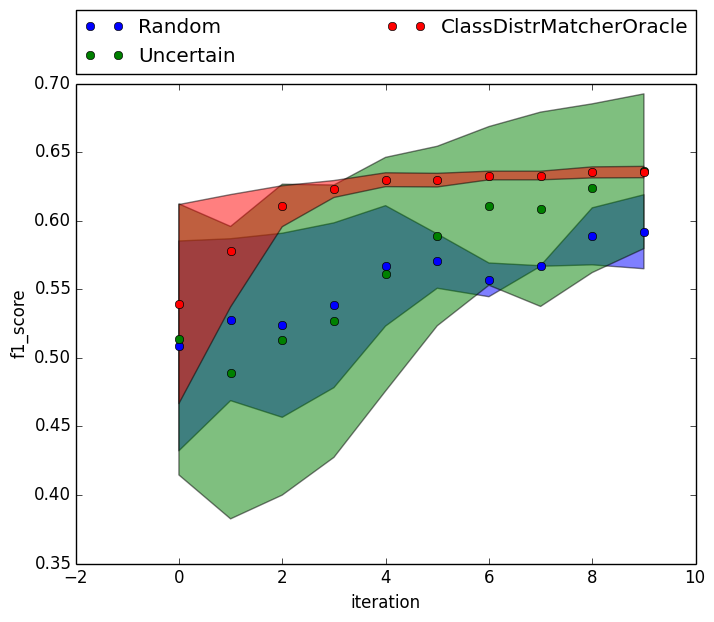
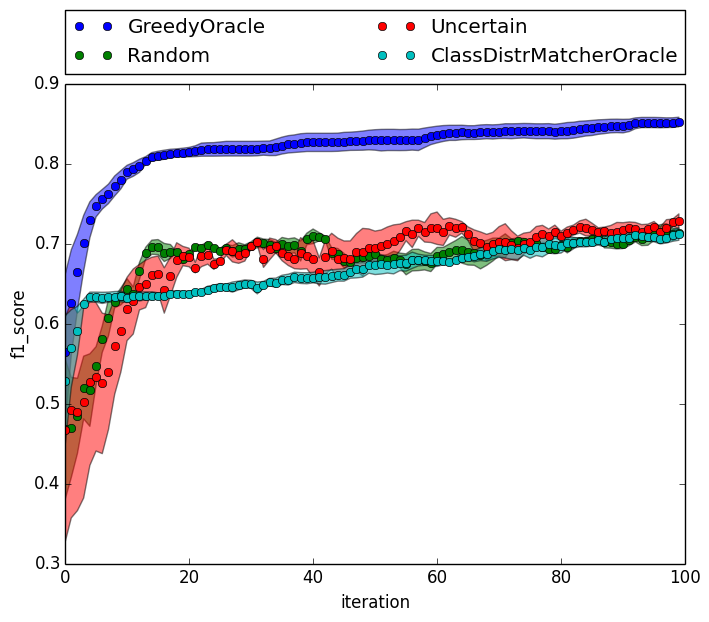
ClassDistrUncertCombo fixed (closes #2); more experiments

diff --git a/active-prior/active.py b/active-prior/active.py
@@ -74,14 +74,17 @@ class ActiveLearner(object):
         self.iters = iters
         self.eval_f = getattr(sklearn.metrics, eval_f)
 
-    def run(self, xtrain, ytrain, xtest, ytest, labeled):
-        """ Fit the classifier using active learning. """
+    def setup(self, xtrain, ytrain, xtest, ytest, labeled):
         self.xtrain = xtrain
         self.ytrain = ytrain
         self.xtest = xtest
         self.ytest = ytest
-        self.clf.fit(xtrain[list(labeled)], ytrain[list(labeled)])
         self.n_classes = len(set(ytest))
+
+    def run(self, xtrain, ytrain, xtest, ytest, labeled):
+        """ Fit the classifier using active learning. """
+        self.setup(xtrain, ytrain, xtest, ytest, labeled)
+        self.clf.fit(xtrain[list(labeled)], ytrain[list(labeled)])
         unlabeled = set(range(len(ytrain))) - labeled
         results = []
         for iteri in range(self.iters):
@@ -144,6 +147,12 @@ class Combo(ActiveLearner):
         self.learners = kwargs.pop('learners')
         super(Combo, self).__init__(*args, **kwargs)
         self.which = 0
+
+    def setup(self, xtrain, ytrain, xtest, ytest, labeled):
+        """ Fit the classifier using active learning. """
+        for l in self.learners:
+            l.setup(xtrain, ytrain, xtest, ytest, labeled)
+        super(Combo, self).setup(xtrain, ytrain, xtest, ytest, labeled)
 
     def select_instances(self, X, labeled_indices, unlabeled_indices):
         learner = self.learners[self.which]

diff --git a/expts/NOTEBOOK.md b/expts/NOTEBOOK.md
@@ -63,13 +63,20 @@ We call this `ClassDistrMatcherOracle`.
 
 ![cdmo](cdmo.png)
 
-Looking at the scores for each instance at each iteration, we see that once
-the classifier matches the class distribution, it then just picks instances
-that don't change the decision boundary. That is, it pickes instances that it
-classifies perfectly (akin to the `Certain` strategy).
+While this approach seems to help in the very beginning, it then does much
+worse than random. Looking at the scores for each instance at each iteration,
+we see that once the classifier matches the class distribution, it then just
+picks instances that don't change the decision boundary much. That is, it pickes
+instances that it classifies perfectly (akin to the `Certain` strategy). One
+hypothesis is that the algorithm is stuck in a local minimum --- the class
+distribution matches perfectly, so the decision boundary doesn't change. But,
+while the class distribution matches, the boundary is poor.
 
-To address this, we use a hybrid strategy in which we alternate between using `ClassDistrMatcherOracle` and `Certain`:
+To address this, we use a hybrid strategy in which we alternate between using
+`ClassDistrMatcherOracle` and `Certain`, which we call
+`ClassDistrUncertCombo`. This allows us to inject some randomness to escape
+local minima:
 
-	python -m active-prior.expt --models ClassDistrUncertCombo,ClassDistrMatcherOracle,Random,Uncertain --iters 15 --trials 3 --init-labeled 20 --figure expt/cdmo_unc.png --eval f1_score
+	python -m active-prior.expt --models ClassDistrUncertCombo,ClassDistrMatcherOracle,Random,Uncertain,GreedyOracle --iters 100 --trials 3 --init-labeled 20 --figure expt/cdmo_unc.png --eval f1_score
 
 ![cdmo_unc](cdmo_unc.png)
